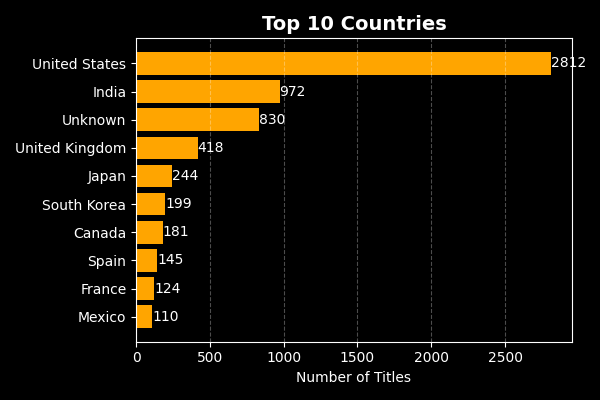
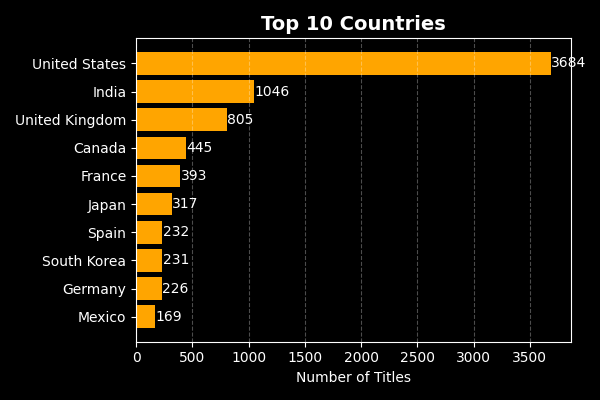
updated dashboard files

diff --git a/templates/index.html b/templates/index.html
@@ -17,7 +17,6 @@
 </head>
 
 <body>
-
     <div class="dashboard">
 
         <div class="topbar">
@@ -99,21 +98,53 @@
             </div>
         </div>
 
-        <div class="prediction">
-            <form action="/predict" method="post">
-                <input type="number" name="release_year" placeholder="Release Year" required>
-                <input type="number" name="duration" placeholder="Duration" required>
-                <input type="text" name="rating" placeholder="Rating" required>
-                <button type="submit">Predict</button>
-            </form>
+       <div class="prediction">
 
-            {% if result %}
-            <div class="result">
-                Prediction: {{ result }}
-            </div>
-            {% endif %}
-        </div>
+    <form action="/predict" method="post">
+        <input type="number" name="release_year" placeholder="Release Year" required>
+        <input type="number" name="duration" placeholder="Duration" required>
+        <input type="text" name="rating" placeholder="Rating (TV-MA, PG, etc)" required>
+        <button type="submit">Search</button>
+    </form>
 
+    {% if table_data %}
+    <div class="result-table">
+
+        <h3>Matching Titles</h3>
+
+        <table border="1">
+            <thead>
+                <tr>
+                    <th>Title</th>
+                    <th>Type</th>
+                    <th>Director</th>
+                    <th>Country</th>
+                    <th>Year</th>
+                    <th>Rating</th>
+                    <th>Duration</th>
+                    <th>Genre</th>
+                </tr>
+            </thead>
+
+            <tbody>
+                {% for row in table_data %}
+                <tr>
+                    <td>{{ row.title }}</td>
+                    <td>{{ row.type }}</td>
+                    <td>{{ row.director }}</td>
+                    <td>{{ row.country }}</td>
+                    <td>{{ row.release_year }}</td>
+                    <td>{{ row.rating }}</td>
+                    <td>{{ row.duration }}</td>
+                    <td>{{ row.listed_in }}</td>
+                </tr>
+                {% endfor %}
+            </tbody>
+
+        </table>
+
+    </div>
+    {% endif %}
     </div>
 
     <script src="{{ url_for('static', filename='app.js') }}" defer></script>

diff --git a/app.py b/app.py
@@ -8,8 +8,6 @@ import os
 
 app = Flask(__name__)
 
-
-
 df = pd.read_csv("netflix.csv")
 
 df.fillna({
@@ -34,9 +32,13 @@ if not os.path.exists("static/charts"):
 
 plt.style.use('dark_background')
 
+# ==============================
+# CREATE CHARTS
+# ==============================
+
 def create_charts():
 
-   
+  
     plt.figure(figsize=(6,4))
     counts = df['type'].value_counts()
     bars = plt.bar(counts.index, counts.values,
@@ -55,7 +57,7 @@ def create_charts():
     plt.savefig("static/charts/type.png")
     plt.close()
 
-
+   
     plt.figure(figsize=(6,4))
     year_counts = df['year_added'].value_counts().sort_index()
     plt.plot(year_counts.index, year_counts.values,
@@ -68,20 +70,27 @@ def create_charts():
     plt.savefig("static/charts/year.png")
     plt.close()
 
-
     
+
     plt.figure(figsize=(6,4))
-    top_countries = df['country'].value_counts().head(10)
+
+    country_data = df['country'].dropna()
+    country_data = country_data[country_data != "Unknown"]
+    country_data = country_data.str.split(',').explode()
+    country_data = country_data.str.strip()
+    top_countries = country_data.value_counts().head(10)
     bars = plt.barh(top_countries.index, top_countries.values,
                     color='#FFA500')
+
     plt.title("Top 10 Countries", fontsize=14, fontweight='bold')
     plt.xlabel("Number of Titles")
+
     plt.gca().invert_yaxis()
     plt.grid(axis='x', linestyle='--', alpha=0.3)
 
     for bar in bars:
         width = bar.get_width()
-        plt.text(width, bar.get_y() + bar.get_height()/2,
+        plt.text(width + 5, bar.get_y() + bar.get_height()/2,
                  int(width), va='center')
 
     plt.tight_layout()
@@ -92,8 +101,10 @@ def create_charts():
     plt.figure(figsize=(6,4))
     genre = df['listed_in'].str.split(',').explode()
     top_genres = genre.value_counts().head(10)
+
     bars = plt.bar(top_genres.index, top_genres.values,
                    color='#8A2BE2')
+
     plt.title("Top 10 Genres", fontsize=14, fontweight='bold')
     plt.xticks(rotation=45, ha='right')
     plt.ylabel("Count")
@@ -110,6 +121,10 @@ def create_charts():
 
 create_charts()
 
+# ==============================
+# MACHINE LEARNING
+# ==============================
+
 le = LabelEncoder()
 df['rating_encoded'] = le.fit_transform(df['rating'])
 
@@ -124,7 +139,6 @@ model = LogisticRegression(max_iter=1000)
 model.fit(X_train, y_train)
 
 accuracy = round(model.score(X_test, y_test) * 100, 2)
-
 
 
 total_content = len(df)
@@ -148,23 +162,36 @@ def predict():
         duration = int(request.form['duration'])
         rating = request.form['rating']
 
-        if rating in le.classes_:
-            rating_encoded = le.transform([rating])[0]
-        else:
-            rating_encoded = 0
+        results = df[
+            (df['release_year'] == release_year) &
+            (df['duration'] >= duration) &
+            (df['rating'] == rating)
+        ]
 
-        prediction = model.predict([[release_year, duration, rating_encoded]])
-        result = prediction[0]
+        results = results.head(10)
+
+        table_data = results[[
+            'title',
+            'type',
+            'director',
+            'country',
+            'release_year',
+            'rating',
+            'duration',
+            'listed_in'
+        ]].to_dict(orient='records')
 
     except:
-        result = "Invalid Input"
+        table_data = []
 
-    return render_template("index.html",
-                           result=result,
-                           total=total_content,
-                           movies=total_movies,
-                           shows=total_shows,
-                           accuracy=accuracy)
+    return render_template(
+        "index.html",
+        table_data=table_data,
+        total=total_content,
+        movies=total_movies,
+        shows=total_shows,
+        accuracy=accuracy
+    )
 
 if __name__ == "__main__":
     app.run(debug=True)
